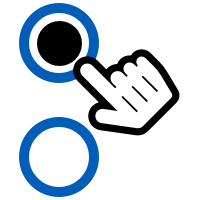
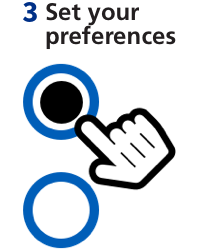
Revisions to v3 landing page

diff --git a/views/v3/01-overview.html b/views/v3/01-overview.html
@@ -52,12 +52,6 @@
           <p>
             Whenever you visit an NHS service, care professionals must keep records about you. These may be electronic, paper or a mixture of both. Your records contain your health and social care information.
           </p>
-          <p>
-            The NHS may share this personally identifiable information in two different ways. The first reason for sharing is for your own individual care. This allows healthcare professionals, like doctors and dentists, to see your important medical details.
-          </p>
-          <p>
-            The second reason for sharing is to help the NHS research, plan and improve health and social care services for you and your family.
-          </p>
         </div>
       </div>
     </div>
@@ -66,34 +60,24 @@
   <div class="marketing-section marketing-section-grey">
     <div class="page-section">
       <div class="reading-width">
-        <div class="grid-row">
-          <div class="column--two-thirds">
-            <h2>Summary of data use</h2>
-          </div>
-        </div>
-
-        <hr />
 
         <div class="grid-row">
           <div class="column--one-third">
             <h3 class="marketing-icon-header">Who uses your data?</h3>
             <img class="marketing-icon" src="/images/who-icon.png" alt="who uses your data icon" />
             <p>NHS Digital collects data from a wide variety of NHS trusts, local authorities and independent sector organisations. Certain institutes can request access to this health and care data. </p>
-            <hr />
             <a class="button-wire" role="button" href="/{{PROTOTYPE_URL}}/02-who-uses-your-data" title="Find out more about who uses your data">Find out more</a>
           </div>
           <div class="column--one-third">
             <h3 class="marketing-icon-header">How is your data kept secure?</h3>
             <img class="marketing-icon" src="/images/lock-icon.png" alt="how your data is kept secure icon" />
             <p>NHS Digital collects data from a wide variety of NHS trusts, local authorities and independent sector organisations. Certain institutes can request access to this health and care data. </p>
-            <hr />
             <a class="button-wire" role="button" href="/{{PROTOTYPE_URL}}/03-how-data-is-kept-secure" title="Find out more about how your data is kept secure">Find out more</a>
           </div>
           <div class="column--one-third">
             <h3 class="marketing-icon-header">What are the benefits of sharing data?</h3>
             <img class="marketing-icon" src="/images/benefits-icon.png" alt="benefits of data sharing icon" />
             <p>Patient data can be used in research to improve treatment for serious illnesses and conditions as well as managing and preparing health and social care services in England. </p>
-            <hr />
             <a class="button-wire" role="button" href="/{{PROTOTYPE_URL}}/04-benefits-of-data-sharing" title="Find out more about the benefits of sharing your data">Find out more</a>
           </div>
         </div>
@@ -108,13 +92,12 @@
           <h2 id="where-opt-outs-apply">Where does your opt-out apply?</h2>
           <hr />
           <p>
-            If you opt-out of sharing your personally identifiable information, details like your name and address will no longer appear in data shared by NHS Digital.
+            If you do not want your data to be used in this way you can opt-out of sharing your personally identifiable information, meaning details like your name and address will no longer appear in data shared by NHS Digital.
           </p>
           <p>
             There are some circumstances where opt-outs do not apply, and your personally identifiable data will still be used.
           </p>
-          <hr />
-          <p><a href="/{{PROTOTYPE_URL}}/05-how-opting-out-works" title="Find out more about where opt-outs do and do not apply">Find out more</a></p>
+          <a class="button-wire" role="button" href="/{{PROTOTYPE_URL}}/05-how-opting-out-works" title="Find out more about where opt-outs do and do not apply">Find out more</a>
         </div>
       </div>
     </div>
@@ -130,49 +113,33 @@
           </div>
         </div>
         <div class="grid-row">
-          <div class="column--one-fifth">
-            <h3 class="marketing-icon-header">1. Check your details</h3>
-            <img class="marketing-icon" alt="check your details icon" src="/images/verify-icon.png" />
-            <p class="marketing-icon-text">You enter your details and we look for your contact details in the NHS England patient database.</p>
+          <div class="column--one-quarter">
+            <img class="marketing-icon" alt="check your details icon"  src="/images/verify-icon.png" />
+            <p class="marketing-icon-text">You enter your details and we look for your contact information in the NHS England patient database.</p>
           </div>
-          <div class="column--one-fifth">
+          <div class="column--one-eighth">
             <img class="next-icon-right" alt="next step indicator" src="/images/next-icon.png" />
           </div>
-          <div class="column--one-fifth">
-            <h3 class="marketing-icon-header">2. Confirm your identity</h3>
+          <div class="column--one-quarter">
             <img class="marketing-icon" alt="check your details icon" src="/images/verification-method-icon.png" />
-            <p class="marketing-icon-text">We send you a verification code to your chosen contact method, which you enter online.</p>
+            <p class="marketing-icon-text">We send a verification code to your selected contact method and you enter this online.</p>
           </div>
-          <div class="column--one-fifth">
+          <div class="column--one-eighth">
             <img class="next-icon-right" alt="next step indicator" src="/images/next-icon.png" />
           </div>
-          <div class="column--one-fifth">
-            <h3 class="marketing-icon-header">3. Set your preferences</h3>
+          <div class="column--one-quarter">
             <img class="marketing-icon" alt="check your details icon" src="/images/choice-icon.png" />
             <p class="marketing-icon-text">You confirm your data sharing preferences, which will be applied within 21 days.</p>
           </div>
         </div>
         <hr />
-        <a class="button-wire" role="button" href="/{{PROTOTYPE_URL}}/05-how-opting-out-works.html" title="Find out more about the preference setting process">Find out more</a>
+        <h2 class="h3">Register a preference</h2>
+        <p>You can use our online service to request that your personally identifiable data information is not used or shared beyond your own individual care.</p>
+        <a role="button" class="button" title="Start Opt-out Process" href="/{{PROTOTYPE_URL}}/app/index">Start</a>
       </div>
     </div>
   </div>
 
-  <div class="page-section">
-    <div class="reading-width">
-      <div class="grid-row">
-        <div class="column--two-thirds">
-          <h2>Registering a preference</h2>
-          <p>If you do not wish to share your patient data, you can use our online service to request that your personally identifiable information is not used or shared beyond your own individual care. </p>
-
-          <p>
-            <a role="button" class="button" title="Start Opt-out Process" href="/{{PROTOTYPE_URL}}/app/index">Start</a>
-            <a role="button" class="button button--secondary" title="Start Opt-out Process" href="/{{PROTOTYPE_URL}}/02-who-uses-your-data">Find out more</a>
-          </p>
-        </div>
-      </div>
-    </div>
-  </div>
 
 
 </main>

diff --git a/public/stylesheets/nhsuk.css b/public/stylesheets/nhsuk.css
@@ -3230,13 +3230,7 @@ input[type=range]:focus::-ms-fill-upper {
     display: none; } }
 
 .v3 .marketing-icon-text {
-  text-align: center; }
-  @media (min-width: 925px) {
-    .v3 .marketing-icon-text {
-      min-height: 224px; } }
-
-.v3 .find-out-more-text {
-  text-align: center; }
+  text-align: left; }
 
 /* Testing new column widths */
 .column--one-fifth {
@@ -3246,6 +3240,38 @@ input[type=range]:focus::-ms-fill-upper {
     .column--one-fifth {
       float: left;
       width: 20%; } }
+
+.column--one-sixth {
+  display: block;
+  padding: 0 16px; }
+  @media (min-width: 925px) {
+    .column--one-sixth {
+      float: left;
+      width: 16.66667%; } }
+
+.column--five-sixths {
+  display: block;
+  padding: 0 16px; }
+  @media (min-width: 925px) {
+    .column--five-sixths {
+      float: left;
+      width: 83.33333%; } }
+
+.column--one-seventh {
+  display: block;
+  padding: 0 16px; }
+  @media (min-width: 925px) {
+    .column--one-seventh {
+      float: left;
+      width: 14.28571%; } }
+
+.column--one-eighth {
+  display: block;
+  padding: 0 16px; }
+  @media (min-width: 925px) {
+    .column--one-eighth {
+      float: left;
+      width: 12.5%; } }
 
 .local-header__subtitle {
   color: white;

diff --git a/public/stylesheets/components/_v3.scss b/public/stylesheets/components/_v3.scss
@@ -74,6 +74,7 @@
     }
   }
 
+
   .marketing-icon {
     display: block;
     margin-left: auto;
@@ -91,14 +92,9 @@
   }
 
   .marketing-icon-text {
-    text-align: center;
+    text-align: left;
     @include media(desktop) {
-      min-height: 224px;
     }
-  }
-
-  .find-out-more-text {
-    text-align: center;
   }
 }
 
@@ -106,4 +102,16 @@
 
 .column--one-fifth {
   @include grid-column(1 / 5);
+}
+.column--one-sixth {
+  @include grid-column(1 / 6);
+}
+.column--five-sixths {
+  @include grid-column(5 / 6);
+}
+.column--one-seventh {
+  @include grid-column(1 / 7);
+}
+.column--one-eighth {
+  @include grid-column(1 / 8);
 }
